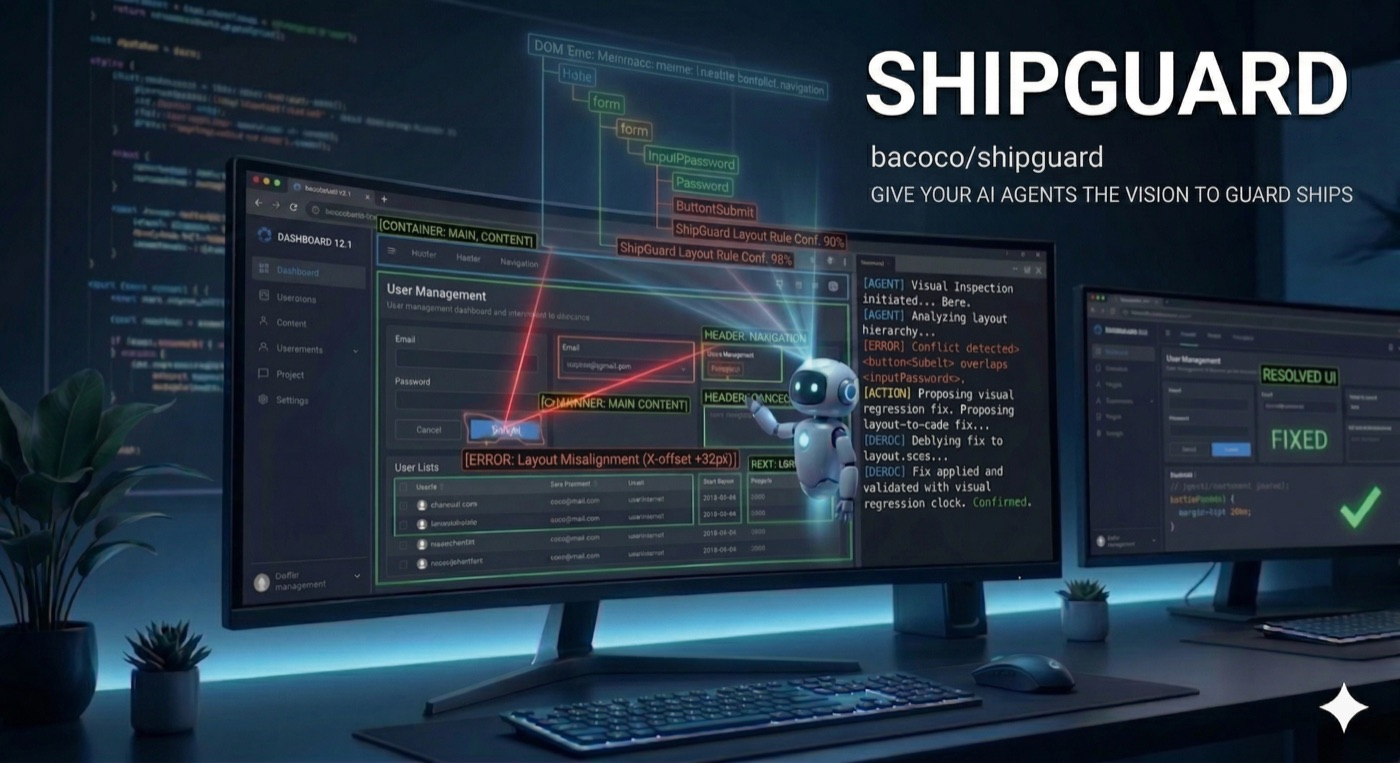
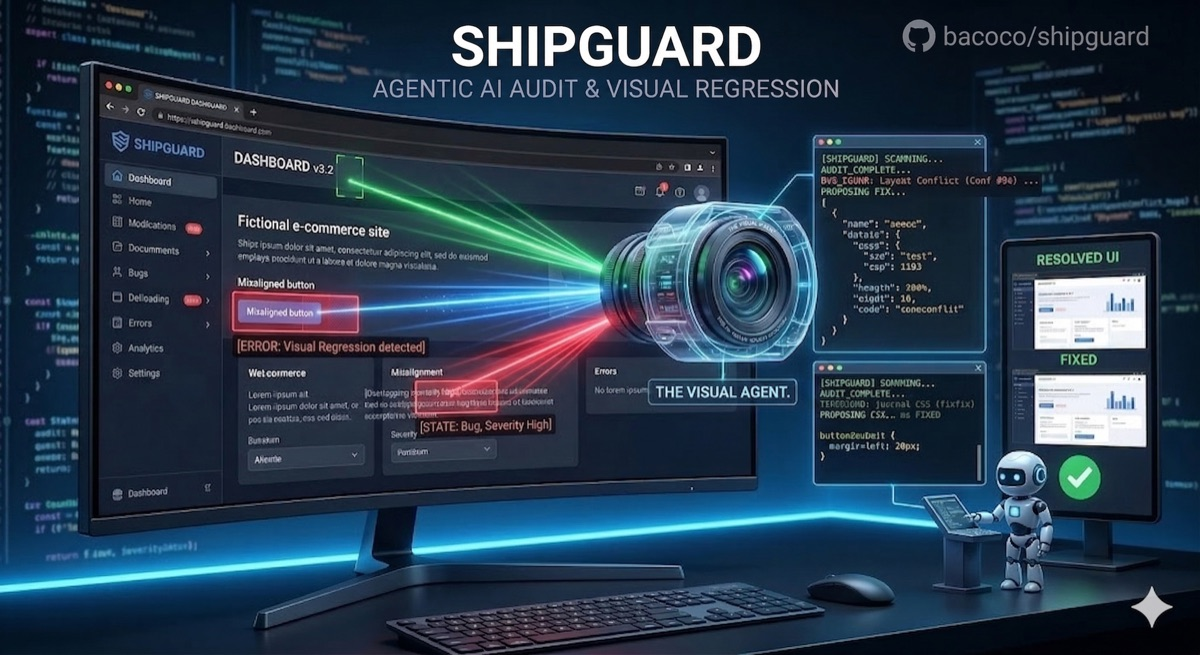
fix: update root README with Mission Control content + screenshots
Root README was still showing old "Step 1/2/3" structure.
Now matches plugin README: independent features, hero image,
screenshots, smart annotations docs, CLI compatibility.

diff --git a/README.md b/README.md
@@ -1,140 +1,192 @@
-![ShipGuard](docs/screenshots/hero-banner.jpg)
-
 # ShipGuard
 
-**AI-powered code audit + visual E2E testing. Zero tests written.**
+![ShipGuard — Agentic AI Audit & Visual Regression](docs/screenshots/hero-banner.jpg)
 
-You push code. You don't know what you broke. ShipGuard dispatches parallel AI agents to find bugs in your code, then visually verifies the impacted pages with real browser screenshots. No test files to write, no test infrastructure to maintain.
+**AI-powered code audit + visual testing for Claude Code.**
+
+Two independent superpowers. Use one or both.
+
+> ⚠ **Token Usage**
+> Code audits are token-intensive. A `standard` audit (10 agents) on a medium codebase uses ~2M tokens. `deep` (15 agents, 2 rounds) can use 5M+. `paranoid` (20 agents, 3 rounds) can exceed 10M tokens. Monitor your usage.
 
 ---
 
-## Install
+## Code Audit
 
-ShipGuard is a Claude Code plugin. Add it in one line:
-
-```
-claude plugin add bacoco/shipguard
-```
-
-**Requires:** `agent-browser` CLI
+Dispatch parallel AI agents to audit your entire codebase. Each agent reviews a non-overlapping zone, finds bugs, fixes them, and produces structured JSON. Watch progress in real-time on the Mission Control dashboard.
 
 ```bash
+/sg-code-audit deep
+```
+
+### Modes
+
+| Mode | Agents | Rounds | Coverage |
+|------|--------|--------|----------|
+| quick | 5 | 1 | Surface scan |
+| standard | 10 | 1 | Full codebase (default) |
+| deep | 15 | 2 | Surface + runtime behavior |
+| paranoid | 20 | 3 | Surface + runtime + edge cases & security |
+
+### Multi-round depth
+
+- **R1** — Null refs, missing guards, type mismatches
+- **R2** — Race conditions, async pitfalls, state management
+- **R3** — Edge cases, injection, auth bypass, data leaks
+
+### Smart Scope
+
+By default, ShipGuard detects what changed and asks whether to limit the audit:
+
+```
+/sg-code-audit       # "12 files changed since main. Audit only what changed?"
+```
+
+Override with flags:
+
+| Flag | Effect |
+|------|--------|
+| `--all` | Force full scope, skip the question |
+| `--diff=<ref>` | Use a specific base reference |
+| `--focus=path/` | Restrict to a directory |
+| `--report-only` | Find bugs but do not fix them |
+
+Flags combine freely: `/sg-code-audit deep --focus=src/ --report-only`
+
+### Live Dashboard
+
+At startup, the audit offers to open the Mission Control dashboard. The **Code Audit** tab shows real-time agent pods (running/done/pending), severity heatmap, bug table filterable by severity and free-text search. Polls every 3s during active audit.
+
+![Code Audit — Dark Mode](docs/screenshots/code-audit-dark.png)
+
+![Bugs filtered by Critical](docs/screenshots/bugs-critical.png)
+
+### Output
+
+Results are written to `audit-results.json`:
+
+- `summary` — totals by severity and category
+- `bugs[]` — file, line, severity, description, fix status
+- `impacted_routes[]` — UI routes affected (consumed by `/sg-visual-run --from-audit`)
+
+### Supported languages
+
+Python, TypeScript/React, Next.js, Infrastructure (Docker/YAML/CI), Go, Rust, JVM.
+
+---
+
+## Visual Testing
+
+Agent-browser E2E testing with LLM-powered assertions. Discover routes, generate tests, run them, review screenshots, annotate problems, auto-fix.
+
+![Visual Tests — Screenshot Grid](docs/screenshots/visual-tests.png)
+
+```bash
+/sg-visual-run I changed the sidebar
+```
+
+### Commands
+
+| Command | What it does |
+|---------|-------------|
+| `/sg-visual-discover` | Scan codebase, generate YAML test manifests per route |
+| `/sg-visual-run [what]` | Execute manifests — natural language or flags |
+| `/sg-visual-review` | Launch interactive screenshot review dashboard |
+| `/sg-visual-fix` | Auto-fix bugs annotated in the review dashboard |
+| `/sg-visual-review-stop` | Stop the review server |
+
+### Smart Annotations (Gemini-style)
+
+The review dashboard uses **draggable annotation cards** to mark visual bugs on screenshots. Click anywhere on a screenshot to place a pin, then describe the problem.
+
+**How it works:**
+1. Open a screenshot in the lightbox
+2. **Double-click** anywhere on the image — a pin appears instantly (or click **+ Add Note** first)
+3. **Click** = point pin. **Drag** = rectangle zone selection (highlights the problem area)
+4. Choose severity + type your note → a card appears connected to the pin
+5. **Drag the pin** to reposition — zone, card, and leader line all move together
+6. **Drag the card** separately to reposition just the label
+7. **Double-click** a card to edit text/severity, click X to delete
+8. Click **Validate & Generate Report** when done → produces `fix-manifest.json` with zone coordinates
+9. Run `/sg-visual-fix` → AI reads your annotations + zone coords, traces to source code, fixes automatically
+
+**Severity colors:**
+
+| Color | Level | When to use |
+|-------|-------|-------------|
+| 🔴 Red | **Critical** | Broken layout, missing content, crash |
+| 🟠 Orange | **High** | Wrong alignment, color mismatch, bad spacing |
+| 🔵 Blue | **Medium** | Minor visual inconsistency, polish needed |
+| ⚪ Gray | **Info** | Suggestion, not a bug |
+
+![Smart Annotations — Draggable Cards](docs/screenshots/smart-annotations.png)
+
+### sg-visual-run options
+
+```bash
+/sg-visual-run                                  # Interactive — choose scope
+/sg-visual-run I changed the sidebar, check it  # Natural language
+/sg-visual-run --from-audit                     # Test audit-impacted routes
+/sg-visual-run --regressions                    # Re-run previously failed tests
+/sg-visual-run --all                            # Full suite
+```
+
+`--from-audit` reads `impacted_routes` from `audit-results.json` — a natural bridge between the two features.
+
+### Discover options
+
+```bash
+/sg-visual-discover                    # Current project
+/sg-visual-discover --all              # Full discovery
+/sg-visual-discover --refresh-existing # Regenerate existing manifests
+```
+
+Supports Next.js (App Router & Pages Router), React Router, Vue, Angular.
+
+---
+
+## Compatibility
+
+Built for **Claude Code**. Partial support for other AI CLIs:
+
+| Feature | Claude Code | Codex CLI / Gemini CLI |
+|---------|------------|----------------------|
+| Code Audit (parallel) | ✅ Full | ❌ Requires Agent tool |
+| Visual Testing | ✅ Full | ✅ agent-browser is CLI-independent |
+| Review Dashboard | ✅ Full | ✅ Pure Node.js |
+| Visual Discover/Fix | ✅ Full | ✅ Bash + LLM prompts |
+
+The visual testing pipeline works with any AI CLI that can run shell commands and read/write files. Code audit parallelization requires Claude Code's `Agent` tool with worktree isolation.
+
+Community adapters welcome.
+
+---
+
+## Quick Start
+
+```bash
+# Install
+claude plugin add bacoco/shipguard
 npm install -g agent-browser && agent-browser install --with-deps
-```
 
-Restart Claude Code. The `/sg-*` commands are ready.
-
----
-
-## The flow
-
-### Step 1 -- Find the bugs
-
-```
+# Audit your code
 /sg-code-audit
+
+# Test your UI
+/sg-visual-run
 ```
 
-ShipGuard detects what changed since your base branch and proposes a focused audit. Parallel agents scan the impacted files and their direct importers. Each bug is classified by severity and category. Fixes are applied automatically in isolated git worktrees.
+## Configuration
 
-![Code Audit — bugs found by severity](docs/screenshots/code-audit-bugs.png)
+Create `visual-tests/_config.yaml`:
 
-When the audit starts, ShipGuard offers to open a live dashboard at **http://localhost:8888**. While agents work in parallel, the Monitor tab shows a real-time Gantt timeline: which agent is running, which finished, how many tokens each consumed, how many bugs each found, and the estimated cost. If an agent overflows its context, you see the re-split happen live.
-
-![Monitor — live Gantt timeline of audit agents](docs/screenshots/monitor-tab-gantt.png)
-
-### Step 2 -- Discover what to test
-
+```yaml
+base_url: "http://localhost:3000"
+credentials:
+  username: "testuser"
+  password: "testpass"
+build_command: "docker compose up -d --build frontend"  # optional
 ```
-/sg-visual-discover
-```
-
-Before running any visual test, ShipGuard scans your entire application: routes, pages, navigation tree, auth flows, feature flags. It generates YAML test manifests automatically -- one per user journey. You review the generated manifests, adjust if needed, and you're ready to test.
-
-This is the foundation: without discovery, you don't know what your app looks like. With discovery, you have a complete map of every testable page.
-
-![Discover — scan routes and generate test manifests](docs/screenshots/discover-output.png)
-
-### Step 3 -- Run visual tests
-
-```
-/sg-visual-run --from-audit
-```
-
-The impacted routes from the audit are opened in a real browser. Each page is screenshotted and compared to expected behavior. You can also run all tests, only regressions, or describe what to test in natural language.
-
-![Visual Tests — screenshot grid with pass/fail results](docs/screenshots/visual-tests-grid.png)
-
-### Step 4 -- Review in the dashboard
-
-```
-/sg-visual-review
-```
-
-All results in one page at **http://localhost:8888** -- three tabs: **Visual Tests** (screenshots), **Code Audit** (bugs), and **Monitor** (the Gantt timeline from step 1). Filter by severity, category, status. Search. Export CSV.
-
-### Step 5 -- Annotate problems visually
-
-Click any screenshot to open it full-screen. Draw rectangles around broken areas, circle UI problems with the freehand pen, or flag a page for complete redo. Add a text note describing what's wrong.
-
-![Annotate — draw on screenshots and describe problems](docs/screenshots/annotation-with-note.png)
-
-The annotation is the key: you mark what's broken, in your own words. No need to write code or selectors.
-
-### Step 6 -- Let the AI fix it
-
-```
-/sg-visual-fix
-```
-
-Click **Validate & Generate Report** in the dashboard. Then run `/sg-visual-fix`. The AI reads every annotation you drew, traces each problem to the exact source file, fixes it, and captures before/after screenshots to prove the fix worked.
-
----
-
-## Skills
-
-| Skill | What it does |
-|-------|-------------|
-| `/sg-code-audit` | Dispatch parallel agents to find and fix bugs across your repo |
-| `/sg-visual-discover` | Scan your app and generate YAML test manifests automatically |
-| `/sg-visual-run` | Run visual tests with agent-browser -- scripted or natural language |
-| `/sg-visual-review` | Interactive dashboard -- screenshots + code audit in one page |
-| `/sg-visual-fix` | Read annotated screenshots, trace bugs to source, fix and verify |
-| `/sg-visual-review-stop` | Stop the review dashboard server |
-
----
-
-## Code Audit Modes
-
-| Mode | Agents | Rounds | What it finds |
-|------|--------|--------|---------------|
-| `quick` | 5 | 1 | Known patterns, lint-like issues |
-| `standard` | 10 | 1 | Broader coverage, standard audit |
-| `deep` | 15 | 2 | + runtime behavior, race conditions |
-| `paranoid` | 20 | 3 | + edge cases, security, logic errors |
-
-```
-/sg-code-audit paranoid
-```
-
----
-
-## How it works
-
-Tests are YAML manifests that describe what the user sees -- not how the DOM is structured. When a CSS class changes, selector-based tests break. These don't.
-
-1. **Code audit** -- Parallel agents scan your codebase for bugs, grouped by severity
-2. **Discovery** -- ShipGuard scans the app and maps every route, page, and user journey
-3. **Visual testing** -- Real browser sessions screenshot every impacted page
-4. **Human review** -- Annotate problems directly on screenshots with pen tools and notes
-5. **AI fix** -- The AI reads annotations, traces to source code, fixes, and shows before/after
-
----
-
-## Proven at scale
-
-112 routes. 16 backend services. 6 authentication flows. Next.js, React, Vue, Angular -- any framework with detectable routes. Handles JWT auth, feature flags, file uploads, multi-step workflows, responsive layouts.
-
----
 
 ## License
 
